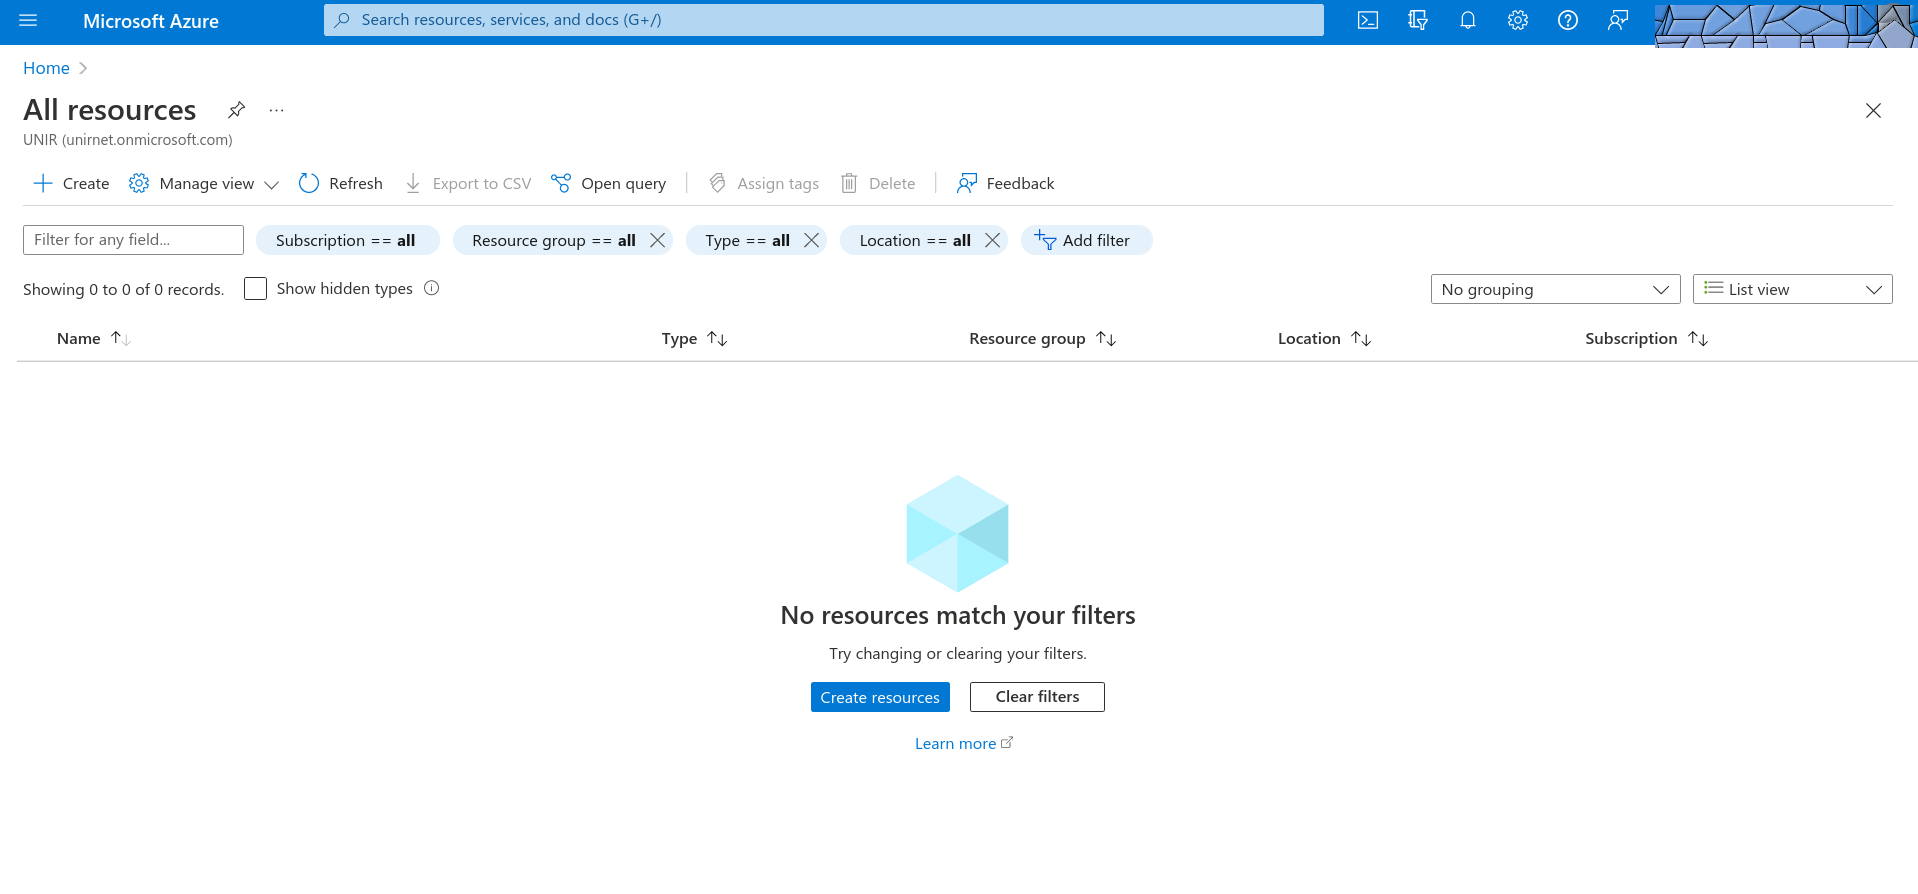
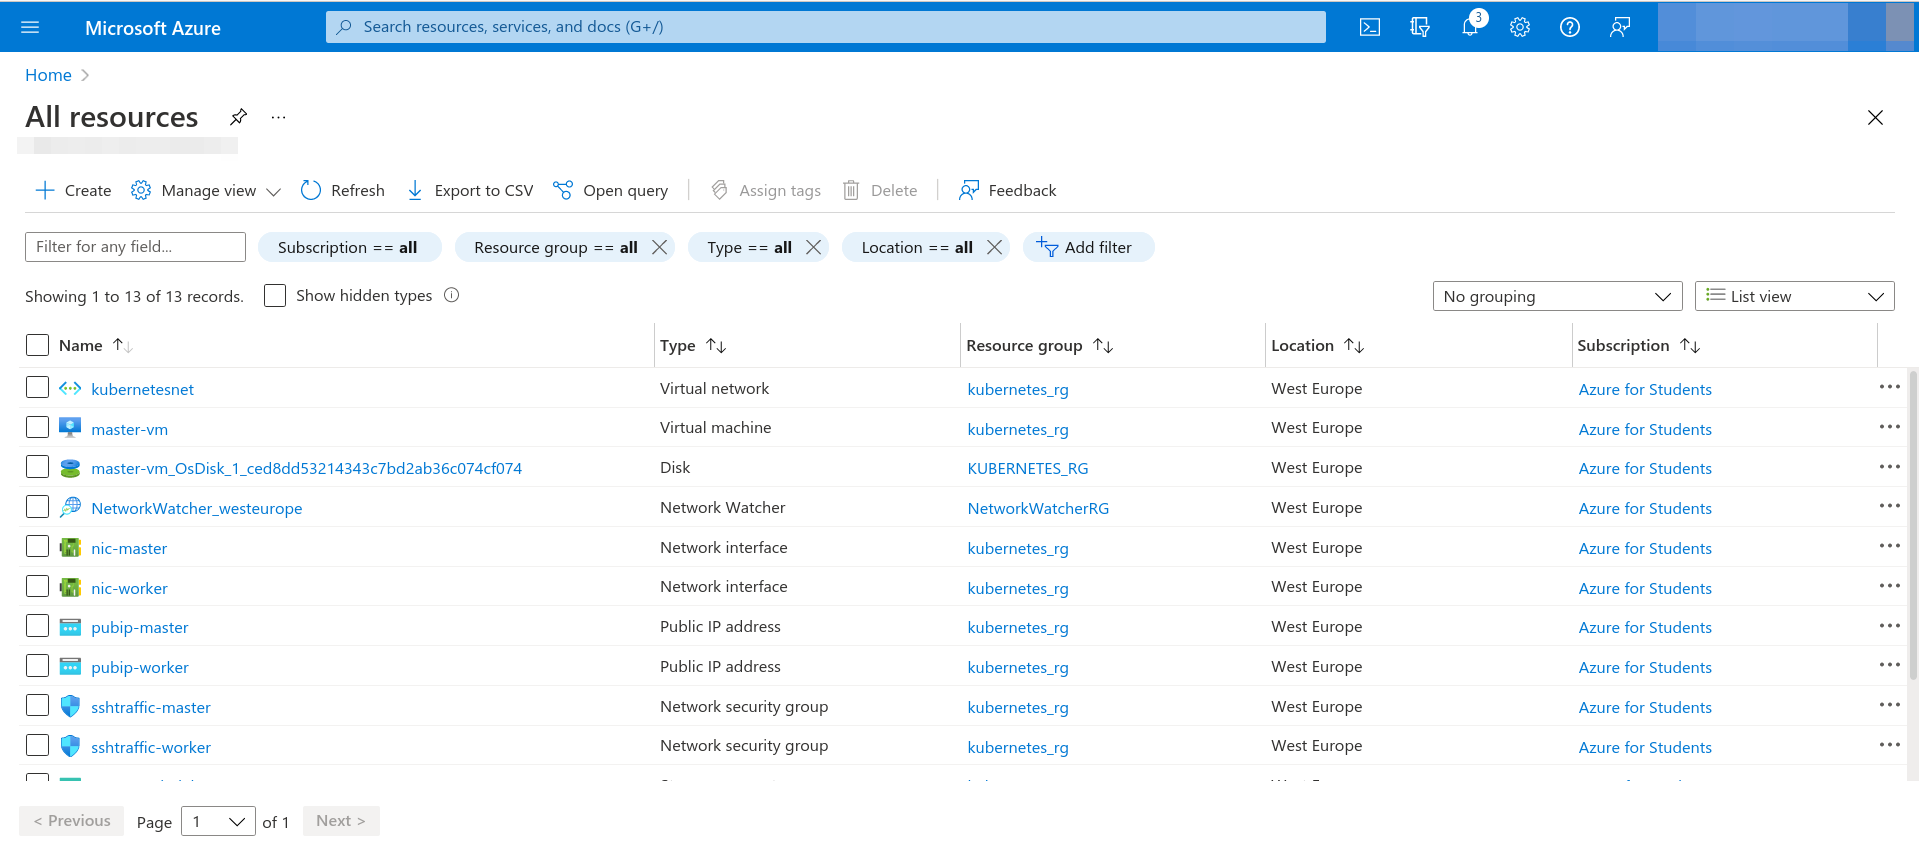
azure resources

diff --git a/estructura-practica/informe.md b/estructura-practica/informe.md
@@ -15,9 +15,11 @@ Se debe entregar **ÚNICAMENTE** un informe en PDF que contenga la siguiente inf
 * El objetivo del informe es que **un cliente** a partir del repositorio de código y con el informe sea capaz de realizar el despliegue de kubernetes en el cloud provider, junto con la aplicación a desplegar y acceder a ella.
 * Se deberá crear un Anexo incluyendo las siguientes captura de pantallas (las capturas que se incluyen son ejemplos orientativos, la información no tiene por que corresponder con el despliegue que haga cada alumno):
 
-  * Captura de la sección de **Resources** de Azure mostrando **TODOS** los recursos creados. Si es necesario incluir varias caputas.
+  * Captura de la sección de **Recursos** creados Azure mostrando **TODOS** los recursos creados. Si es necesario incluir varias caputas.
 
   ![](../imgs/azure-resources.png)
+
+  ![](../imgs/azure-resources-2.png)
 
   * Captura del portal de Azure mostrando el direccionamiento público asinado a cada servidor:
 
